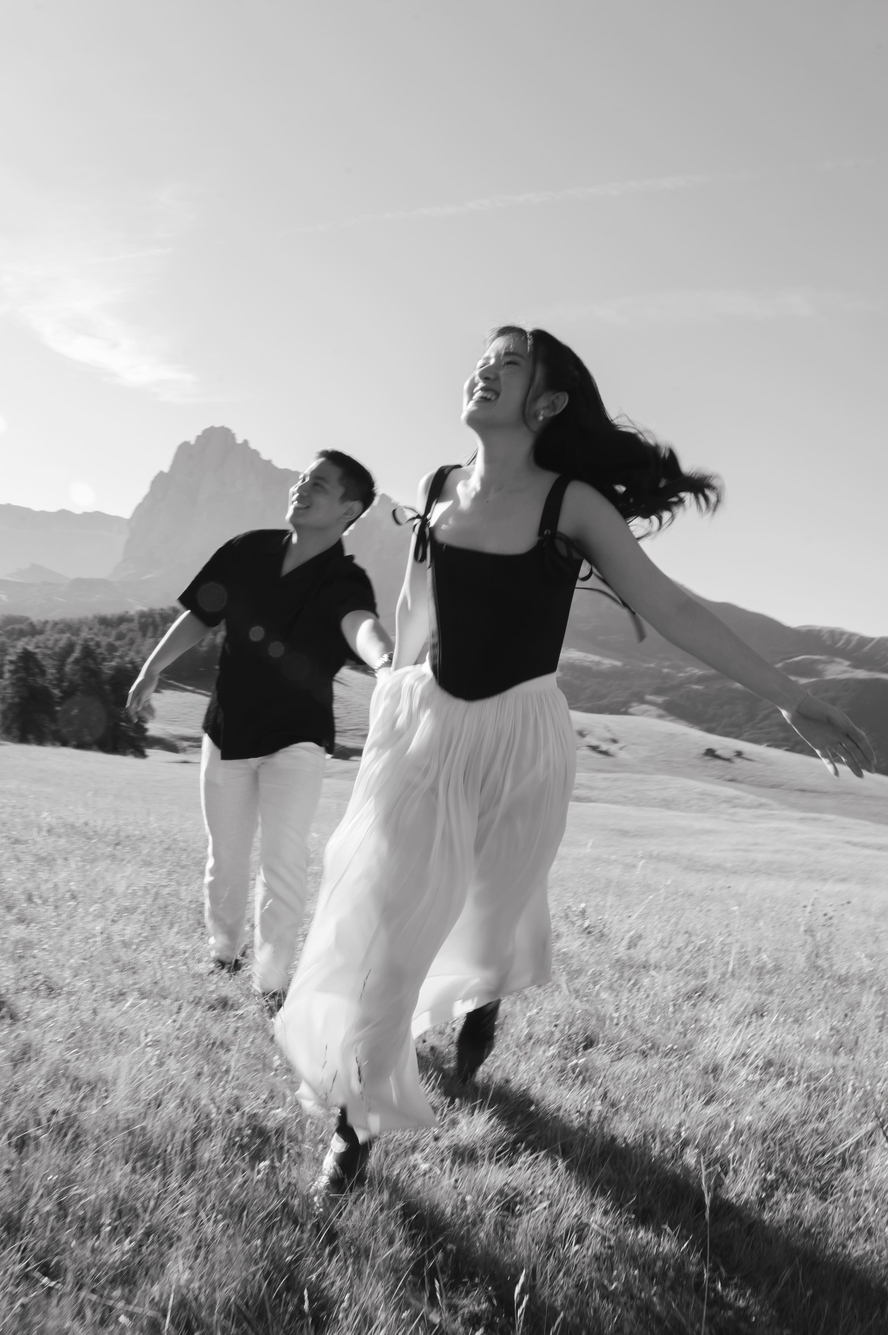
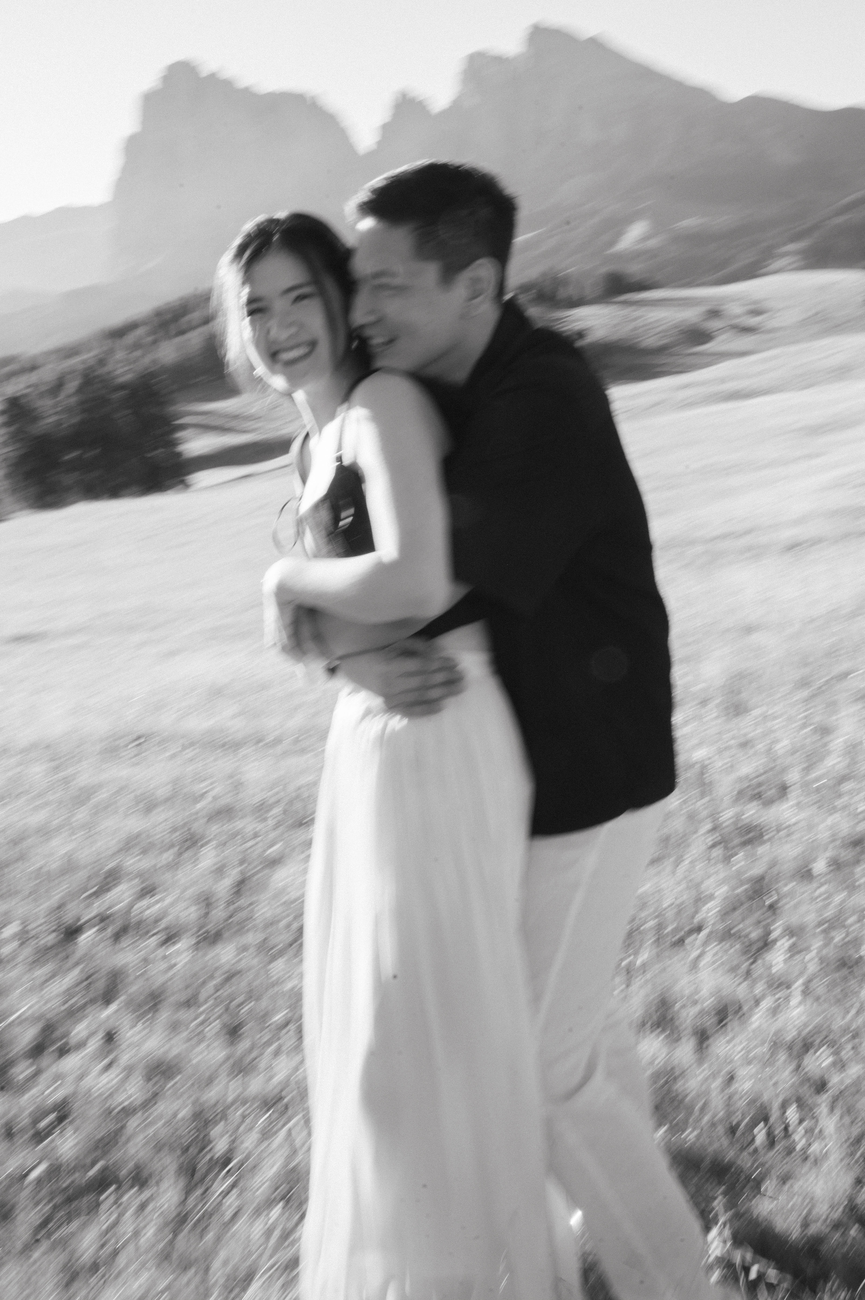
adjust client req

diff --git a/src/app/(client-specific)/reception/marvel-chessa/lovestory/page.tsx b/src/app/(client-specific)/reception/marvel-chessa/lovestory/page.tsx
@@ -78,7 +78,7 @@ export default function LoveStory() {
   return (
     <motion.div
       ref={containerRef}
-      className="flex flex-col bg-[#F6F4F1] pb-10 pt-4 text-[#111111] md:pb-12"
+      className="flex flex-col bg-[#F6F4F1] pb-10 text-[#111111] md:pb-12"
     >
       <motion.div
         ref={headerRef}
@@ -197,12 +197,6 @@ export default function LoveStory() {
             Somewhere along the way, they realised they didn’t just want to
             share a Netflix account, but a lifetime.
           </h5>
-          <h5 className="mb-8 font-hanken text-[11px] leading-relaxed md:text-[12px] lg:text-[14px] xl:text-[16px]">
-            With help from a few friends, Marvel planned the proposal (after one
-            reschedule and many decoy errands). On the day itself, Chessa showed
-            up with freshly washed hair and manicured nails, blissfully unaware
-            — though her gut hinted something was up.
-          </h5>
           <Image
             className="mx-auto mb-8 w-[65%] md:w-[40%]"
             src={imgstory4}
@@ -210,6 +204,12 @@ export default function LoveStory() {
             priority
             loading="eager"
           />
+          <h5 className="mb-4 font-hanken text-[11px] leading-relaxed md:text-[12px] lg:text-[14px] xl:text-[16px]">
+            With help from a few friends, Marvel planned the proposal (after one
+            reschedule and many decoy errands). On the day itself, Chessa showed
+            up with freshly washed hair and manicured nails, blissfully unaware
+            — though her gut hinted something was up.
+          </h5>
           <Image
             className="mx-auto mb-8 w-[65%] md:w-[40%]"
             src={imgstory5}

diff --git a/src/app/(client-specific)/reception/marvel-chessa/outro/page.tsx b/src/app/(client-specific)/reception/marvel-chessa/outro/page.tsx
@@ -37,7 +37,7 @@ export default function Outro() {
   return (
     <motion.div
       ref={containerRef}
-      className="relative flex h-[70vh] w-full flex-col items-center justify-center text-[#111111] md:h-[80vh] lg:h-[100vh]"
+      className="relative flex h-[100vh] w-full flex-col items-center justify-center text-[#111111]"
     >
       <Image
         alt="Outro background"
@@ -50,16 +50,23 @@ export default function Outro() {
           objectPosition: "center 25%",
         }}
       />
-      <div className="absolute inset-0 z-5 bg-black/20" />
+      <div className="z-5 absolute inset-0 bg-black/30" />
       <motion.h5
         ref={titleRef}
-        className="relative z-10 text-center font-cormorant text-[12px] text-[#FFFFFF] md:text-[14px] lg:text-[16px]"
+        className="relative z-10 text-center font-cormorant text-[12px] leading-relaxed text-[#FFFFFF] md:text-[14px] lg:text-[16px] xl:text-[18px]"
         style={{
           opacity: title.opacity,
           y: title.y,
         }}
       >
-        WE CAN&apos;T WAIT TO SEE YOU THERE!
+        THANK YOU <br />{" "}
+        <span className="font-freight text-[10px] md:text-[12px] lg:text-[14px] xl:text-[16px]">
+          FOR ALL YOUR PRAYERS AND WELL WISHES!
+        </span>{" "}
+        <br />{" "}
+        <span className="font-freight text-[10px] md:text-[12px] lg:text-[14px] xl:text-[16px]">
+          WE CAN&apos;T WAIT TO CELEBRATE THIS SPECIAL DAY WITH YOU!
+        </span>
       </motion.h5>
     </motion.div>
   );

diff --git a/src/app/(client-specific)/reception/marvel-chessa/intro/page.tsx b/src/app/(client-specific)/reception/marvel-chessa/intro/page.tsx
@@ -169,12 +169,9 @@ export default function Intro() {
         }}
       >
         <motion.div
-          className="center max-h-screen w-full overflow-hidden"
+          className="center relative max-h-screen w-full overflow-hidden"
           style={{ scale: imageScaleSpring }}
         >
-          <motion.h4 className="mb-8 text-center font-cormorant text-[20px] lg:mb-20 lg:text-[25px] xl:mb-32 xl:text-[31px]">
-            A JOURNEY IN LOVE
-          </motion.h4>
           <div className="relative">
             {images.map((img, index) => (
               <motion.div
@@ -201,6 +198,12 @@ export default function Intro() {
                 />
               </motion.div>
             ))}
+            {/* Dark overlay on photos */}
+            <div className="absolute inset-0 bg-black/10" />
+            {/* Text overlay centered on photos */}
+            <motion.h4 className="absolute left-1/2 top-1/2 -translate-x-1/2 -translate-y-1/2 text-center font-cormorant text-[14px] text-white drop-shadow-2xl lg:text-[16px] xl:text-[20px]">
+              A JOURNEY IN LOVE
+            </motion.h4>
           </div>
         </motion.div>
       </motion.div>

diff --git a/src/app/(client-specific)/reception/marvel-chessa/homepage/page.tsx b/src/app/(client-specific)/reception/marvel-chessa/homepage/page.tsx
@@ -432,7 +432,7 @@ export default function Homepage() {
                 exit={{ opacity: 0 }}
                 transition={{ delay: 0.8, duration: 0.8 }}
               >
-                Please enter the code
+                Please enter the passcode
               </motion.p>
 
               <motion.form
@@ -448,7 +448,7 @@ export default function Homepage() {
                     type="text"
                     value={authCode}
                     onChange={(e) => handleAuthCodeChange(e.target.value)}
-                    placeholder="Enter code"
+                    placeholder="Enter passcode"
                     className="w-48 bg-transparent p-2 text-center font-freight text-[20px] tracking-wide text-white placeholder-white/50 outline-none xl:text-[25px]"
                     autoComplete="off"
                   />

diff --git a/src/app/(client-specific)/reception/marvel-chessa/photoalbum/page.tsx b/src/app/(client-specific)/reception/marvel-chessa/photoalbum/page.tsx
@@ -65,7 +65,7 @@ export default function PhotoAlbum() {
       </motion.div>
       <motion.div
         ref={image2Ref}
-        className="relative z-20"
+        className="relative z-30"
         style={{
           y: image2.y,
         }}
@@ -80,7 +80,7 @@ export default function PhotoAlbum() {
       </motion.div>
       <motion.div
         ref={image3Ref}
-        className="relative z-10"
+        className="relative z-20"
         style={{
           y: image3.y,
         }}
